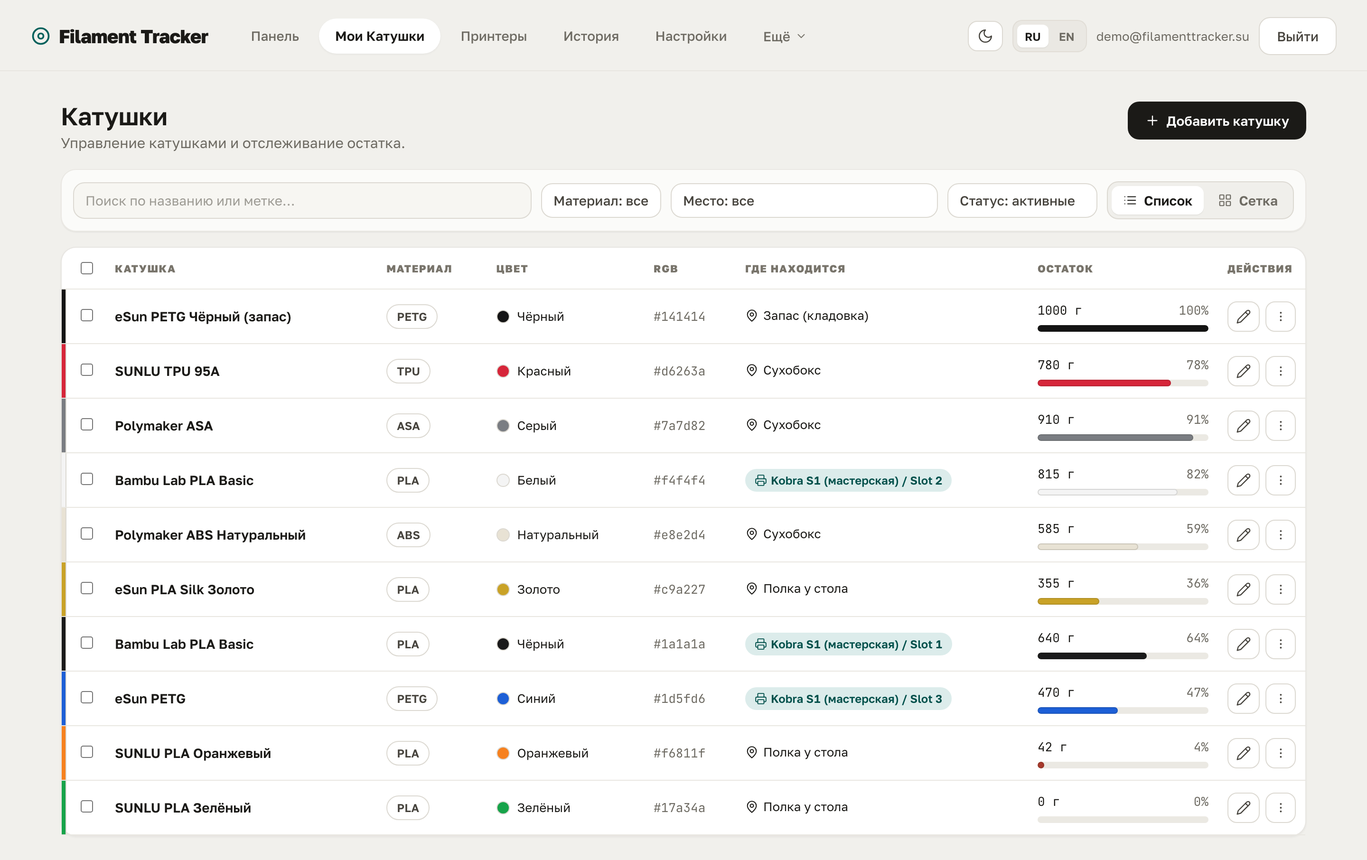
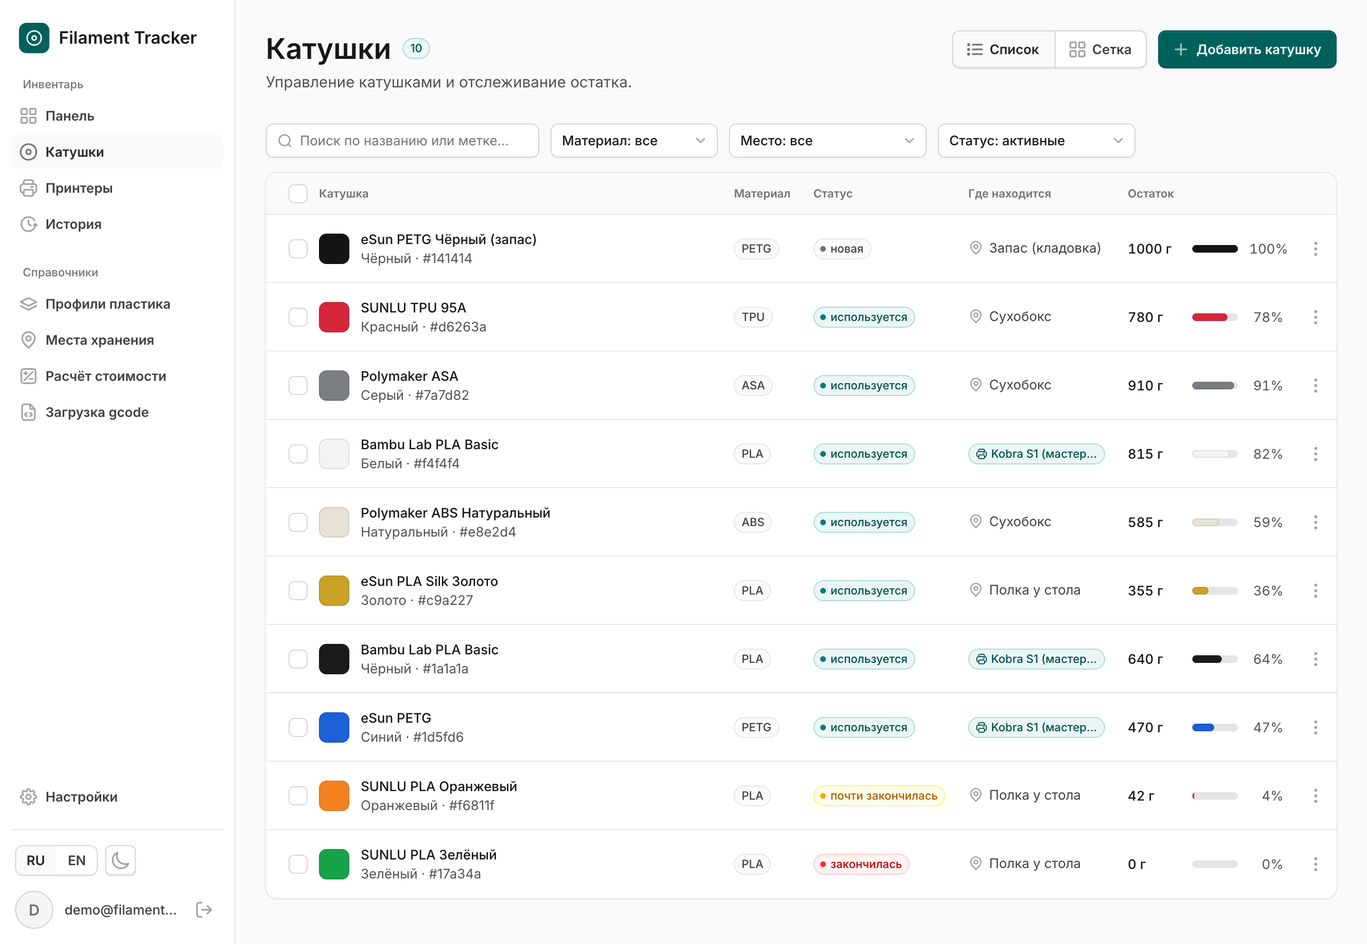
README: кадры и описания под новый интерфейс; QR в демо больше не сплошной
- Все скриншоты (ru и en) пересняты с демо: 1440 px, двойная плотность,
  светлая тема, без плашки «Демо»; у принтеров открыта панель Moonraker,
  у gcode — разбор файла, у расчёта стоимости — сохранённый расчёт.
- Описания экранов: вкладки карточки катушки и настроек, панель принтера
  по кнопке Moonraker, миниатюры в истории печати, автоматические статусы
  катушки; в возможностях — миниатюры печатей и работа на телефоне.
- Демо: псевдо-QR рисовался сплошь чёрным — умножение в генераторе теряло
  младшие биты; теперь Math.imul и старший бит.

diff --git a/frontend/src/api/demo.js b/frontend/src/api/demo.js
@@ -723,9 +723,11 @@ function fakeQr(token) {
   let rects = "";
   for (let y = 0; y < N; y++) {
     for (let x = 0; x < N; x++) {
-      h = (h * 1103515245 + 12345) >>> 0;
+      // Math.imul: обычное умножение теряет младшие биты за 2^53, и сетка
+      // выходила сплошь чёрной. Младший бит ЛКГ чередуется — берём старший.
+      h = (Math.imul(h, 1103515245) + 12345) >>> 0;
       const corner = (x < 3 && y < 3) || (x > N - 4 && y < 3) || (x < 3 && y > N - 4);
-      if (corner || h % 2 === 0) rects += `<rect x="${x}" y="${y}" width="1" height="1"/>`;
+      if (corner || (h >>> 16) % 2 === 0) rects += `<rect x="${x}" y="${y}" width="1" height="1"/>`;
     }
   }
   const svg = `<svg xmlns="http://www.w3.org/2000/svg" viewBox="0 0 ${N} ${N}" shape-rendering="crispEdges"><rect width="${N}" height="${N}" fill="#fff"/><g fill="#000">${rects}</g></svg>`;

diff --git a/README.md b/README.md
@@ -52,11 +52,12 @@ Filament Tracker отвечает на эти вопросы вместо вас
 ### Склад
 
 - **Инвентарь катушек** — материал, цвет, остаток в граммах, место хранения, фото.
-  В списке цвет филамента вынесен в полосу по краю строки, поэтому нужную катушку
-  видно, не читая названий.
+  В списке у каждой катушки — образец её настоящего цвета и шкала остатка в том же
+  цвете, поэтому нужную видно, не читая названий.
 - **Точный остаток** — списание по весу, ручные корректировки, полная история движений.
   Порог «заканчивается» считается от размера катушки, поэтому одна настройка работает
-  и для килограммовых, и для пробников.
+  и для килограммовых, и для пробников. Статус меняется сам: катушка «новая», пока с
+  неё ничего не списано, дальше — «используется», «почти закончилась» и «закончилась».
 - **Профили филамента** — шаблоны бренда и материала со всеми температурами, чтобы не
   заполнять карточку заново для каждой катушки.
 - **Места хранения и слоты принтера** — видно, что лежит на полке, а что заправлено.
@@ -75,6 +76,8 @@ Filament Tracker отвечает на эти вопросы вместо вас
 - **Каталог принтеров** — 50 с лишним моделей Klipper/Moonraker (Anycubic, Creality,
   Sovol, QIDI, FLSUN, ELEGOO, Prusa и другие). Тип подключения, число слотов и
   возможности подставляются сами.
+- **Миниатюры печатей** — в истории рядом с каждой печатью видно, что именно
+  печаталось: картинку приложение берёт из gcode или забирает с принтера.
 - **Списание в один клик** — расход по каждому экструдеру уже известен от принтера,
   остаётся подтвердить, с каких катушек списать.
 - **Автосписание** — фоновый опрос: завершённые печати приходят сами, а при полном
@@ -116,6 +119,8 @@ Filament Tracker отвечает на эти вопросы вместо вас
 - **Свой сервер** — вход по логину, ключи принтеров хранятся зашифрованными,
   наружу ничего не уходит.
 - **Два языка** — русский и английский, переключаются на лету.
+- **Удобно и на телефоне** — светлая и тёмная тема; на компьютере меню слева, на
+  телефоне — панель внизу экрана.
 
 ---
 
@@ -133,17 +138,19 @@ Filament Tracker отвечает на эти вопросы вместо вас
 
 ### Катушки
 
-Главный список склада. Слева у каждой строки — полоса реального цвета филамента,
-справа — шкала остатка в том же цвете; когда остаётся мало, она становится сначала
-охряной, потом красной. Отсюда же катушку можно добавить, отредактировать,
+Главный список склада. У каждой строки — образец настоящего цвета филамента и шкала
+остатка в том же цвете, а статус подсказывает, что с катушкой: новая, используется,
+почти закончилась или закончилась. Список фильтруется по материалу, месту и статусу
+и переключается в сетку карточек. Отсюда же катушку можно добавить, отредактировать,
 продублировать в другом цвете, взвесить или напечатать этикетку.
 
 ![Катушки](docs/screenshots/spools.png)
 
 Карточка катушки открывается тем, ради чего её и открывают: сколько осталось.
-Намотка на шкале показывает остаток и покрашена в цвет самого филамента, рядом —
-образец цвета с его кодом. Ниже, на той же странице: размещение и сушка, полные
-характеристики, QR-код для этикетки и история использования.
+Кольцо показывает остаток в цвете самого филамента, рядом — длина и на сколько
+печатей хватит; тут же катушку можно взвесить или указать остаток вручную. Остальное
+разложено по вкладкам: на «Обзоре» — профиль печати, размещение, сушка и QR-код для
+этикетки, дальше — характеристики, история и заметки.
 
 ![Карточка катушки](docs/screenshots/spool-detail.png)
 
@@ -153,19 +160,23 @@ Filament Tracker отвечает на эти вопросы вместо вас
 с любым Klipper/Moonraker-принтером, включая Anycubic на Rinkhals: показывается только
 то, что у принтера действительно есть.
 
-Панель принтера сверяет, что стоит в слотах, с тем, что привязано в приложении, —
-и тут же даёт привязать или снять катушку: нажмите на плитку слота, не заходя в
-«Мои катушки». Ещё она показывает телеметрию и ресурс за всё время, а завершённые
-задания списываются кнопкой рядом. Уже списанные помечаются и второй раз не
-спишутся. Количество принтеров не ограничено.
+Кнопка **Moonraker** открывает панель принтера. Она сверяет, что стоит в слотах, с
+тем, что привязано в приложении, — и тут же даёт привязать или снять катушку: нажмите
+на плитку слота, не заходя в «Катушки». Ниже — телеметрия и ресурс за всё время, а на
+соседних вкладках — сушка, камера и завершённые задания, которые списываются кнопкой
+рядом. Уже списанные помечаются и второй раз не спишутся. Количество принтеров не
+ограничено.
 
 ![Принтеры и Moonraker](docs/screenshots/printers.png)
 
 ### История
 
-Все списания и корректировки: когда, по какой печати и с какой катушки ушёл материал.
-Печати, которые ещё не списаны (черновики), списываются прямо отсюда — кнопкой в
-строке, даже если задание давно уехало из истории принтера.
+Все печати: когда, что печаталось, сколько ушло материала и во сколько обошлось.
+Рядом с каждой — миниатюра модели: её вшивает в gcode слайсер, а у печатей с принтера
+приложение забирает картинку сразу, пока временный файл не удалили. Печати, которые
+ещё не списаны (черновики), списываются прямо отсюда — кнопкой в строке, даже если
+задание давно уехало из истории принтера. По клику на строку открываются подробности:
+с каких катушек и сколько списано.
 
 ![История](docs/screenshots/print-jobs.png)
 
@@ -201,7 +212,8 @@ Filament Tracker отвечает на эти вопросы вместо вас
 
 ![Расчёт стоимости печати](docs/screenshots/cost.png)
 
-Во сколько обходится час работы, задаётся у самого принтера: цена, апгрейды,
+Во сколько обходится час работы, задаётся у самого принтера (кнопка
+«Себестоимость» в списке принтеров): цена, апгрейды,
 обслуживание, срок службы, загрузка, мощность и тариф на электричество. Пустое
 поле — значение по умолчанию, оно же стоит в подсказке.
 
@@ -209,8 +221,10 @@ Filament Tracker отвечает на эти вопросы вместо вас
 
 ### Настройки
 
-Разделы сгруппированы по смыслу, а оглавление слева заодно показывает состояние:
-включён ли автоимпорт, настроен ли Telegram, сколько заведено датчиков.
+Три вкладки — «Автоматизация», «Подключения» и «Данные». Каждая настройка — строка:
+слева что это и зачем, справа сам переключатель или поля, а под заголовком видно
+состояние — включён ли автоимпорт, настроен ли Telegram, сколько заведено датчиков.
+Всё сохраняется сразу, искать кнопку «Сохранить» в конце страницы не нужно.
 
 ![Настройки](docs/screenshots/settings.png)
 

diff --git a/README.en.md b/README.en.md
@@ -53,11 +53,13 @@ and "Reset demo" puts everything back.
 ### Inventory
 
 - **Spool inventory** — material, color, remaining grams, storage location, photo.
-  In the list, each row carries a stripe of the filament's real color, so you spot
-  the spool you want without reading a single name.
+  In the list, each spool shows a swatch of its real color and a remaining bar in the
+  same color, so you spot the one you want without reading a single name.
 - **Accurate remaining amount** — deduction by weight, manual corrections, full
   movement history. The "running low" threshold is measured against the spool's own
-  size, so one setting fits both kilogram rolls and samples.
+  size, so one setting fits both kilogram rolls and samples. Status keeps itself up
+  to date: a spool is "new" until something is deducted from it, then "in use",
+  "almost empty" and "empty".
 - **Filament profiles** — brand and material templates with every temperature, so you
   don't fill in the same card twice.
 - **Storage locations and printer slots** — see what's on the shelf and what's loaded.
@@ -76,6 +78,8 @@ and "Reset demo" puts everything back.
 - **Printer catalog** — 50+ Klipper/Moonraker models (Anycubic, Creality, Sovol, QIDI,
   FLSUN, ELEGOO, Prusa and more). Connection type, slot count and capabilities fill
   themselves in.
+- **Print thumbnails** — the history shows what each print actually was: the
+  picture comes from the gcode or straight from the printer.
 - **One-click deduction** — per-extruder usage already comes from the printer; you
   just confirm which spools it came off.
 - **Automatic deduction** — background polling brings finished prints in on their own,
@@ -117,6 +121,8 @@ and "Reset demo" puts everything back.
 - **Your own server** — login-based access, printer keys stored encrypted, nothing
   leaves the machine.
 - **Two languages** — English and Russian, switched on the fly.
+- **Works on your phone too** — light and dark themes; a sidebar on the desktop and a
+  bottom bar on the phone.
 
 ---
 
@@ -134,17 +140,19 @@ recent events.
 
 ### Spools
 
-The main inventory list. Each row opens with a stripe of the filament's real color,
-and the remaining bar uses that same color; as the spool runs down it turns ochre,
-then red. From here you can add, edit, duplicate in another color, weigh, or print a
-label.
+The main inventory list. Each row shows a swatch of the filament's real color and a
+remaining bar in that same color, while the status tells you where the spool stands:
+new, in use, almost empty or empty. Filter by material, location and status, or switch
+to a grid of cards. From here you can add, edit, duplicate in another color, weigh,
+or print a label.
 
 ![Spools](docs/screenshots/en/spools.png)
 
-The spool page opens with the thing you came for: how much is left. The winding on
-the gauge shows the remaining amount in the filament's own color, with a color
-sample and its hex code beside it. Further down the same page: placement and drying,
-the full spec sheet, a QR code for the label, and usage history.
+The spool page opens with the thing you came for: how much is left. The ring shows
+the remaining amount in the filament's own color, next to its length and how many
+prints it's good for; you can weigh the spool or set the remainder right there. The
+rest sits in tabs: Overview has the print profile, placement, drying and the QR code
+for the label, followed by specifications, history and notes.
 
 ![Spool detail](docs/screenshots/en/spool-detail.png)
 
@@ -154,19 +162,23 @@ Pick a model from the catalog when adding a printer and the rest fills itself in
 Klipper/Moonraker printer works, Anycubic on Rinkhals included: you only see what the
 printer actually has.
 
-The printer panel reconciles what sits in the slots against what's assigned in the
-app — and lets you assign or remove a spool right there: click a slot tile, no need to
-visit My spools. It also shows telemetry and lifetime stats, and deducts finished jobs
-with the button next to them. Deducted jobs are marked and won't be counted twice.
-There's no limit on how many printers you add.
+The **Moonraker** button opens the printer panel. It reconciles what sits in the
+slots against what's assigned in the app — and lets you assign or remove a spool right
+there: click a slot tile, no need to visit Spools. Below that are telemetry and
+lifetime stats, and the neighbouring tabs hold drying, the camera and finished jobs,
+deducted with the button next to them. Deducted jobs are marked and won't be counted
+twice. There's no limit on how many printers you add.
 
 ![Printers and Moonraker](docs/screenshots/en/printers.png)
 
 ### History
 
-Every deduction and correction: when, for which print, and off which spool. Prints
-that aren't deducted yet (drafts) are deducted right here, from the button in the
-row — even when the job has long scrolled out of the printer's own history.
+Every print: when, what it was, how much filament it took and what it cost. Each one
+has a thumbnail of the model: the slicer embeds it in the gcode, and for prints from
+the printer the app grabs the picture right away, before the temporary file is gone.
+Prints that aren't deducted yet (drafts) are deducted right here, from the button in
+the row — even when the job has long scrolled out of the printer's own history. Click
+a row for the details: which spools it came off and how much.
 
 ![History](docs/screenshots/en/print-jobs.png)
 
@@ -203,7 +215,8 @@ spools actually written off. Fields that need explaining carry a question mark.
 
 ![Print cost calculator](docs/screenshots/en/cost.png)
 
-What an hour of printing costs is set on the printer itself: price, upgrades,
+What an hour of printing costs is set on the printer itself (the Cost button in the
+printer list): price, upgrades,
 maintenance, service life, utilisation, power draw and the electricity tariff. An empty
 field means the default, shown as the placeholder.
 
@@ -211,9 +224,10 @@ field means the default, shown as the placeholder.
 
 ### Settings
 
-Sections are grouped by what they actually do, and the contents rail doubles as a
-status board: whether auto-import is on, whether Telegram is set up, how many sensors
-you have.
+Three tabs — Automation, Connections and Data. Every setting is a row: what it is
+and why on the left, the switch or fields on the right, and its status under the
+title — whether auto-import is on, whether Telegram is set up, how many sensors you
+have. Everything saves as you go, so there's no Save button to hunt for at the bottom.
 
 ![Settings](docs/screenshots/en/settings.png)
 
